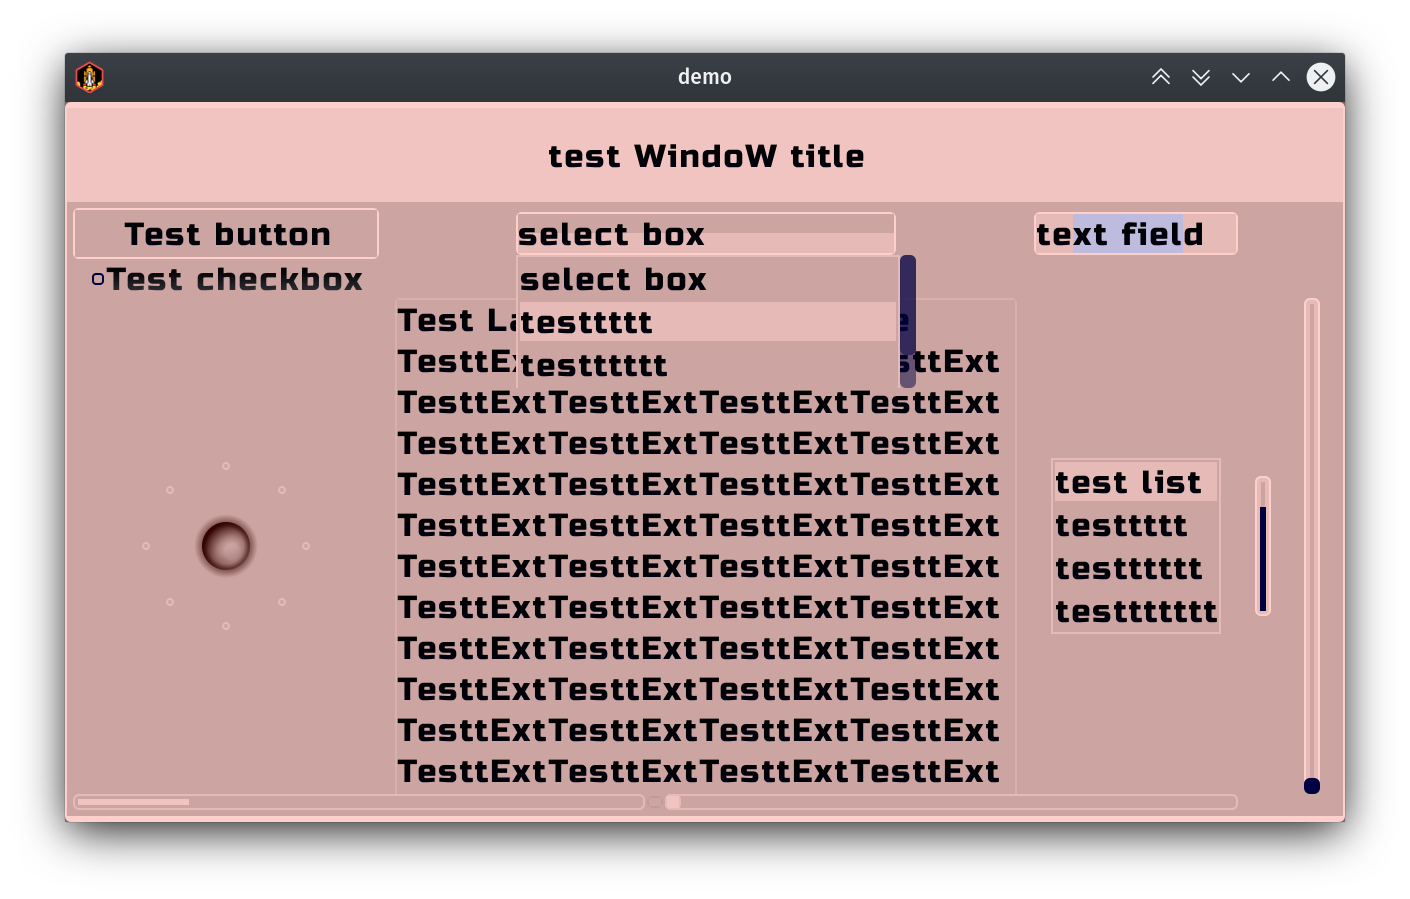
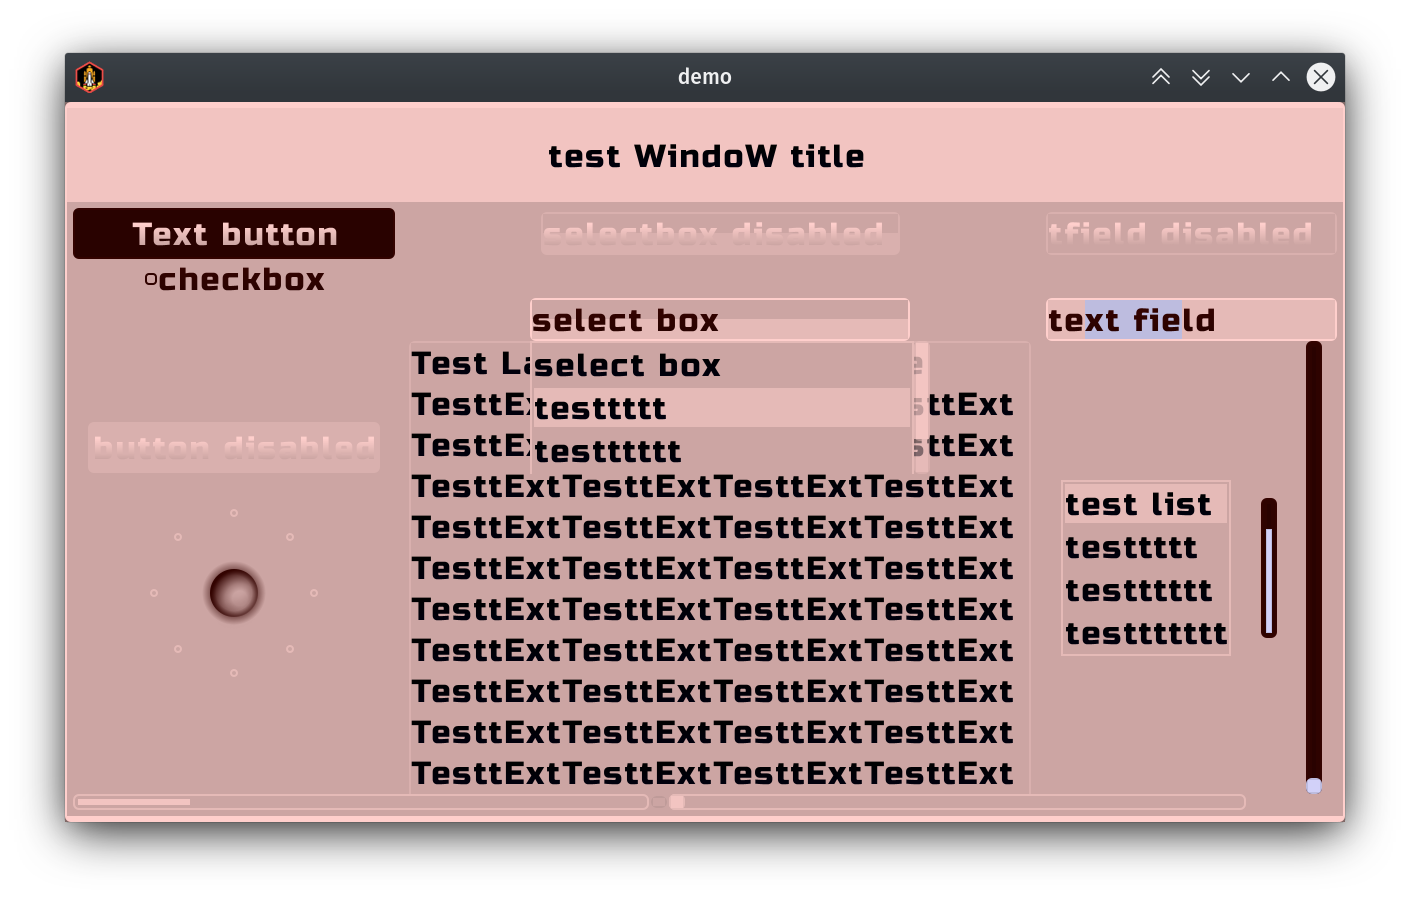
restyling completed

diff --git a/demo13x/core/src/main/kotlin/colorstepskin/StyleCreatorSnow.kt b/demo13x/core/src/main/kotlin/colorstepskin/StyleCreatorSnow.kt
@@ -39,12 +39,12 @@ fun createSnowStyle(css:ColorStepSkin){
             tbuttonSnow[hue].disabled = newDrawable(getDrawable("button-disabled"), hueL)
             tbuttonSnow[hue].font = defaultFont
             tbuttonSnow[hue].fontColor = hueL
+            tbuttonSnow[hue].disabledFontColor = hueD
             
             checkSnow[hue].checkboxOn = newDrawable(getDrawable("check-on"), hueL)
             checkSnow[hue].checkboxOff = newDrawable(getDrawable("check-off"), hueL)
             checkSnow[hue].checkboxOffDisabled = newDrawable(getDrawable("check-off"), hueD)
             checkSnow[hue].checkboxOnDisabled = newDrawable(getDrawable("check-on"), hueD)
-//            checkSnow[hue].disabled = newDrawable(getDrawable("check-disabled"), hueD)
             checkSnow[hue].font = defaultFont
             checkSnow[hue].fontColor = hueL
             checkSnow[hue].disabledFontColor = hueD
@@ -56,6 +56,7 @@ fun createSnowStyle(css:ColorStepSkin){
             tfieldSnow[hue].focusedBackground = newDrawable(getDrawable("textfield-focused"), hueL)
             tfieldSnow[hue].font = defaultFont
             tfieldSnow[hue].fontColor = hueL
+            tfieldSnow[hue].disabledFontColor = hueD
             
             tareaSnow[hue] = tfieldSnow[hue]
             
@@ -81,6 +82,7 @@ fun createSnowStyle(css:ColorStepSkin){
             selectSnow[hue].backgroundDisabled = newDrawable(getDrawable("select-disabled"), hueL)
             selectSnow[hue].font = defaultFont
             selectSnow[hue].fontColor = hueL
+            selectSnow[hue].disabledFontColor = hueD
             
             progressSnow[hue].background = newDrawable(getDrawable("progress-background"), hueL)
             progressSnow[hue].disabledBackground = newDrawable(getDrawable("progress-disabledbackground"), hueL)
@@ -129,7 +131,7 @@ fun createSnowStyle(css:ColorStepSkin){
         for (hue in 0..100){
             val hueL = cbox.snow.colorPair(hue)[0]//light hue based
             val opoL = cbox.snow.colorPair(hue)[1]//light oposite
-//            val hueD = cbox.snow.colorPair(hue, true)[0]//dark hue based
+            val hueD = cbox.snow.colorPair(hue, true)[0]//dark hue based
 //            val opoD = cbox.snow.colorPair(hue, true)[1]//dark oposite
             
             scrollTextSnow[hue].vScrollKnob = newDrawable(getDrawable("vscrollknob"), opoL)
@@ -159,15 +161,15 @@ fun createSnowStyle(css:ColorStepSkin){
             tbuttonTextSnow[hue].disabled = newDrawable(getDrawable("button-disabled"), opoL)
             tbuttonTextSnow[hue].font = defaultFont
             tbuttonTextSnow[hue].fontColor = hueL
+            tbuttonTextSnow[hue].disabledFontColor = hueD
             
             checkTextSnow[hue].checkboxOn = newDrawable(getDrawable("check-on"), hueL)
             checkTextSnow[hue].checkboxOff = newDrawable(getDrawable("check-off"), hueL)
-            checkTextSnow[hue].checkboxOffDisabled = newDrawable(getDrawable("check-off"), opoL)
-            checkTextSnow[hue].checkboxOnDisabled = newDrawable(getDrawable("check-on"), opoL)
-//            checkTextSnow[hue].disabled = newDrawable(getDrawable("check-disabled"), opoL)
+            checkTextSnow[hue].checkboxOffDisabled = newDrawable(getDrawable("check-off"), hueD)
+            checkTextSnow[hue].checkboxOnDisabled = newDrawable(getDrawable("check-on"), hueD)
             checkTextSnow[hue].font = defaultFont
             checkTextSnow[hue].fontColor = hueL
-            checkTextSnow[hue].disabledFontColor = opoL
+            checkTextSnow[hue].disabledFontColor = hueD
             
             tfieldTextSnow[hue].cursor = newDrawable(getDrawable("textfield-cursor"), opoL)
             tfieldTextSnow[hue].selection = newDrawable(getDrawable("textfield-selection"), opoL)
@@ -176,6 +178,7 @@ fun createSnowStyle(css:ColorStepSkin){
             tfieldTextSnow[hue].focusedBackground = newDrawable(getDrawable("textfield-focused"), opoL)
             tfieldTextSnow[hue].font = defaultFont
             tfieldTextSnow[hue].fontColor = hueL
+            tfieldTextSnow[hue].disabledFontColor = hueD
             
             tareaTextSnow[hue] = tfieldTextSnow[hue]
             
@@ -201,6 +204,7 @@ fun createSnowStyle(css:ColorStepSkin){
             selectTextSnow[hue].backgroundDisabled = newDrawable(getDrawable("select-disabled"), opoL)
             selectTextSnow[hue].font = defaultFont
             selectTextSnow[hue].fontColor = hueL
+            selectTextSnow[hue].disabledFontColor = hueD
             
             progressTextSnow[hue].background = newDrawable(getDrawable("progress-background"), opoL)
             progressTextSnow[hue].disabledBackground = newDrawable(getDrawable("progress-disabledbackground"), opoL)
@@ -248,10 +252,10 @@ fun createSnowStyle(css:ColorStepSkin){
             val hueD = cbox.snow.colorPair(hue, true)[0]//dark hue based
             val opoL = cbox.snow.colorPair(hue)[1]//light oposite
             
-            scrollFonSnow[hue].vScrollKnob = newDrawable(getDrawable("inverted-vscrollknob"), opoD)
-            scrollFonSnow[hue].vScroll = newDrawable(getDrawable("inverted-vscroll"), opoD)
-            scrollFonSnow[hue].hScrollKnob = newDrawable(getDrawable("inverted-hscrollknob"), opoD)
-            scrollFonSnow[hue].hScroll = newDrawable(getDrawable("inverted-hscroll"), opoD)
+            scrollFonSnow[hue].vScrollKnob = newDrawable(getDrawable("inverted-vscrollknob"), hueL)
+            scrollFonSnow[hue].vScroll = newDrawable(getDrawable("inverted-vscroll"), hueL)
+            scrollFonSnow[hue].hScrollKnob = newDrawable(getDrawable("inverted-hscrollknob"), hueL)
+            scrollFonSnow[hue].hScroll = newDrawable(getDrawable("inverted-hscroll"), hueL)
             
             splitFonSnow[hue].handle = newDrawable(getDrawable("inverted-splitpane"), hueL)
             
@@ -264,25 +268,27 @@ fun createSnowStyle(css:ColorStepSkin){
             labelFonSnow[hue].font = defaultFontFon
             labelFonSnow[hue].fontColor = opoD
             
-            buttonFonSnow[hue].up = newDrawable(getDrawable("inverted-button-up"), hueL)
+            buttonFonSnow[hue].up = newDrawable(getDrawable("inverted-button-up"), hueD)
             buttonFonSnow[hue].down = newDrawable(getDrawable("inverted-button-down"), hueL)
             buttonFonSnow[hue].checked = newDrawable(getDrawable("inverted-button-checked"), hueL)
             buttonFonSnow[hue].disabled = newDrawable(getDrawable("inverted-button-disabled"), hueL)
             
-            tbuttonFonSnow[hue].up = newDrawable(getDrawable("inverted-button-up"), hueL)
+            tbuttonFonSnow[hue].up = newDrawable(getDrawable("inverted-button-up"), hueD)
             tbuttonFonSnow[hue].down = newDrawable(getDrawable("inverted-button-down"), hueL)
             tbuttonFonSnow[hue].checked = newDrawable(getDrawable("inverted-button-checked"), hueL)
             tbuttonFonSnow[hue].disabled = newDrawable(getDrawable("inverted-button-disabled"), hueL)
-            tbuttonFonSnow[hue].font = defaultFontFon
-            tbuttonFonSnow[hue].fontColor = opoD
+            tbuttonFonSnow[hue].font = defaultFont
+            tbuttonFonSnow[hue].fontColor = hueL
+            tbuttonFonSnow[hue].downFontColor = hueD
+            tbuttonFonSnow[hue].checkedFontColor = hueD
+            tbuttonFonSnow[hue].disabledFontColor = hueL
             
-            checkFonSnow[hue].checkboxOn = newDrawable(getDrawable("inverted-check-on"), opoD)
-            checkFonSnow[hue].checkboxOff = newDrawable(getDrawable("inverted-check-off"), opoD)
+            checkFonSnow[hue].checkboxOn = newDrawable(getDrawable("inverted-check-on"), hueD)
+            checkFonSnow[hue].checkboxOff = newDrawable(getDrawable("inverted-check-off"), hueD)
             checkFonSnow[hue].checkboxOffDisabled = newDrawable(getDrawable("inverted-check-off"), hueL)
             checkFonSnow[hue].checkboxOnDisabled = newDrawable(getDrawable("inverted-check-on"), hueL)
-//            checkFonSnow[hue].disabled = newDrawable(getDrawable("inverted-check-disabled"), hueL)
-            checkFonSnow[hue].font = defaultFontFon
-            checkFonSnow[hue].fontColor = opoL
+            checkFonSnow[hue].font = defaultFont
+            checkFonSnow[hue].fontColor = hueD
             checkFonSnow[hue].disabledFontColor = hueL
             
             tfieldFonSnow[hue].cursor = newDrawable(getDrawable("inverted-textfield-cursor"), opoD)
@@ -290,8 +296,9 @@ fun createSnowStyle(css:ColorStepSkin){
             tfieldFonSnow[hue].background = newDrawable(getDrawable("inverted-textfield-background"), hueL)
             tfieldFonSnow[hue].disabledBackground = newDrawable(getDrawable("inverted-textfield-disabled"), hueL)
             tfieldFonSnow[hue].focusedBackground = newDrawable(getDrawable("inverted-textfield-focused"), hueL)
-            tfieldFonSnow[hue].font = defaultFontFon
-            tfieldFonSnow[hue].fontColor = opoD
+            tfieldFonSnow[hue].font = defaultFont
+            tfieldFonSnow[hue].fontColor = hueD
+            tfieldFonSnow[hue].disabledFontColor = hueL
             /*because style class is same and inside Skin.add() next just override previous. And there is some shit inside,
             * because if no bottom syntax for textarea style , in time of creation textfield app crushed, looks like textfield use
             * textarea style but this style class named as TextFieldStyle etc , not sure. muddy place , but work finally*/
@@ -299,7 +306,7 @@ fun createSnowStyle(css:ColorStepSkin){
             
             listFonSnow[hue].background = newDrawable(getDrawable("inverted-list-background"), hueL)
             listFonSnow[hue].selection = newDrawable(getDrawable("inverted-list-selection"), hueL)
-            listFonSnow[hue].down = newDrawable(getDrawable("inverted-list-down"), hueL)
+            listFonSnow[hue].down = newDrawable(getDrawable("inverted-list-down"), opoL)
             listFonSnow[hue].font = defaultFontFon
             listFonSnow[hue].fontColorSelected = opoD
             listFonSnow[hue].fontColorUnselected = opoD
@@ -308,17 +315,18 @@ fun createSnowStyle(css:ColorStepSkin){
             selectFonSnow[hue].scrollStyle = scrollFonSnow[hue]
             selectFonSnow[hue].background = newDrawable(getDrawable("inverted-select-background"), hueL)
             selectFonSnow[hue].backgroundDisabled = newDrawable(getDrawable("inverted-select-disabled"), hueL)
-            selectFonSnow[hue].font = defaultFontFon
-            selectFonSnow[hue].fontColor = opoD
+            selectFonSnow[hue].font = defaultFont
+            selectFonSnow[hue].fontColor = hueD
+            selectFonSnow[hue].disabledFontColor = hueL
             
-            progressFonSnow[hue].background = newDrawable(getDrawable("inverted-progress-background"), hueL)
+            progressFonSnow[hue].background = newDrawable(getDrawable("inverted-progress-background"), hueD)
             progressFonSnow[hue].disabledBackground = newDrawable(getDrawable("inverted-progress-disabledbackground"), hueL)
-            progressFonSnow[hue].knobBefore = newDrawable(getDrawable("inverted-progress-knobbefore"), opoD)
+            progressFonSnow[hue].knobBefore = newDrawable(getDrawable("inverted-progress-knobbefore"), opoL)
             progressFonSnow[hue].disabledKnobBefore = newDrawable(getDrawable("inverted-progress-disabledknobbefore"), hueL)
             
-            sliderFonSnow[hue].knob = newDrawable(getDrawable("inverted-slider-knob"), opoD)
+            sliderFonSnow[hue].knob = newDrawable(getDrawable("inverted-slider-knob"), opoL)
             sliderFonSnow[hue].disabledKnob = newDrawable(getDrawable("inverted-slider-disabledknob"), hueL)
-            sliderFonSnow[hue].background = newDrawable(getDrawable("inverted-progress-background"), hueL)
+            sliderFonSnow[hue].background = newDrawable(getDrawable("inverted-progress-background"), hueD)
             sliderFonSnow[hue].disabledBackground = newDrawable(getDrawable("inverted-progress-disabledbackground"), hueL)
             
             windowFonSnow[hue].background = newDrawable(getDrawable("inverted-window-background"), hueL)

diff --git a/demo13x/core/src/main/kotlin/colorstepskin/StyleCreatorGum.kt b/demo13x/core/src/main/kotlin/colorstepskin/StyleCreatorGum.kt
@@ -283,7 +283,6 @@ fun createGumStyle(css:ColorStepSkin){
             checkFonGum[hue].checkboxOff = newDrawable(getDrawable("inverted-check-off"), opoD)
             checkFonGum[hue].checkboxOffDisabled = newDrawable(getDrawable("inverted-check-off"), hueL)
             checkFonGum[hue].checkboxOnDisabled = newDrawable(getDrawable("inverted-check-on"), hueL)
-//            checkFonGum[hue].disabled = newDrawable(getDrawable("inverted-check-disabled"), hueL)
             checkFonGum[hue].font = defaultFontFon
             checkFonGum[hue].fontColor = opoL
             checkFonGum[hue].disabledFontColor = hueL

diff --git a/demo13x/core/src/main/kotlin/colorstepskin/ColorStepSkin.kt b/demo13x/core/src/main/kotlin/colorstepskin/ColorStepSkin.kt
@@ -433,7 +433,7 @@ class ColorStepSkin : Skin() {
         createSnowStyle(this)
         
         /*default*/
-        defaultFonGum() /*short name binded to text sun scheme. Call other (declaired bottom) from this place , to make they default*/
+        defaultFonSun() /*short name binded to text sun scheme. Call other (declaired bottom) from this place , to make they default*/
         for (hue in 0..100){
             
             add("$hue", scroll[hue])

diff --git a/README.md b/README.md
@@ -111,7 +111,7 @@ css.defaultFonSun() //switch short form to fon sun color scheme
 ```
 - default color scheme preconfigured to `fon sun` variant in time of creation of `ColorStepSkin` instance
 ```kotlin
-css.defaultFonSun() //inside ColorStepSkin.kt file
+css.defaultFonSun() //method called inside ColorStepSkin.kt file
 ```
 - after this short name `51` will return style with full name `fon51sun`
 ```kotlin
